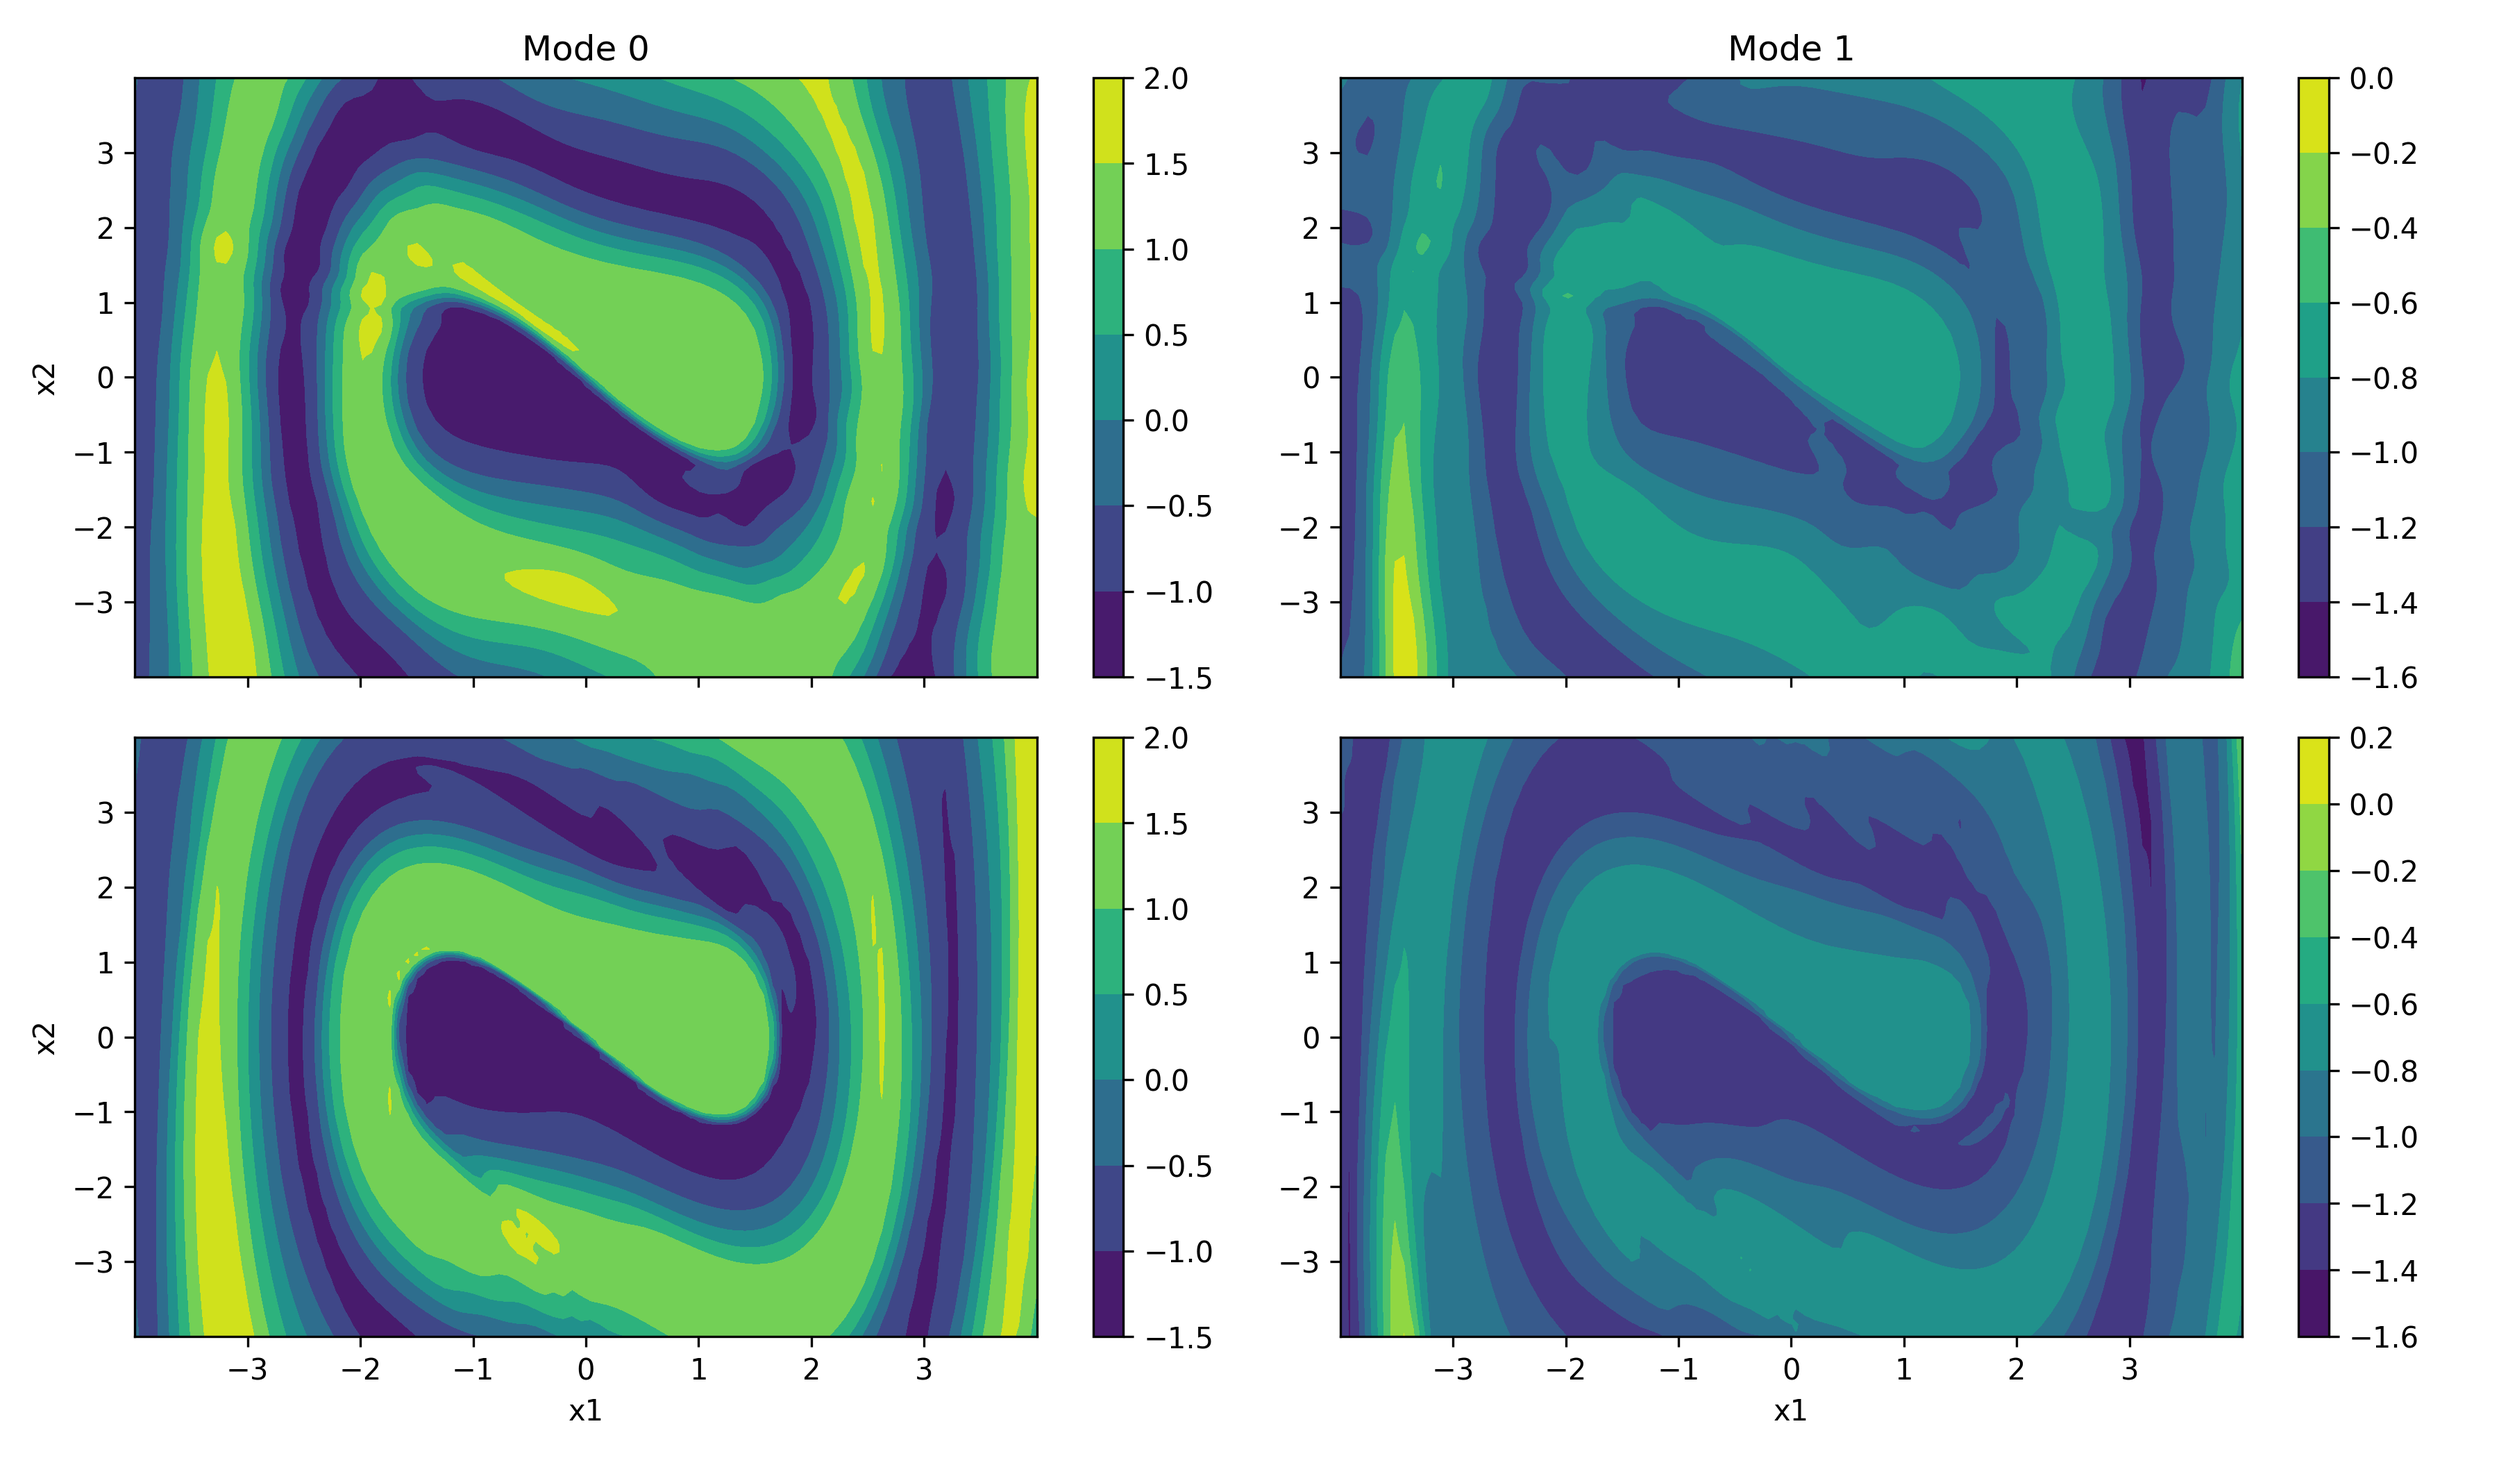
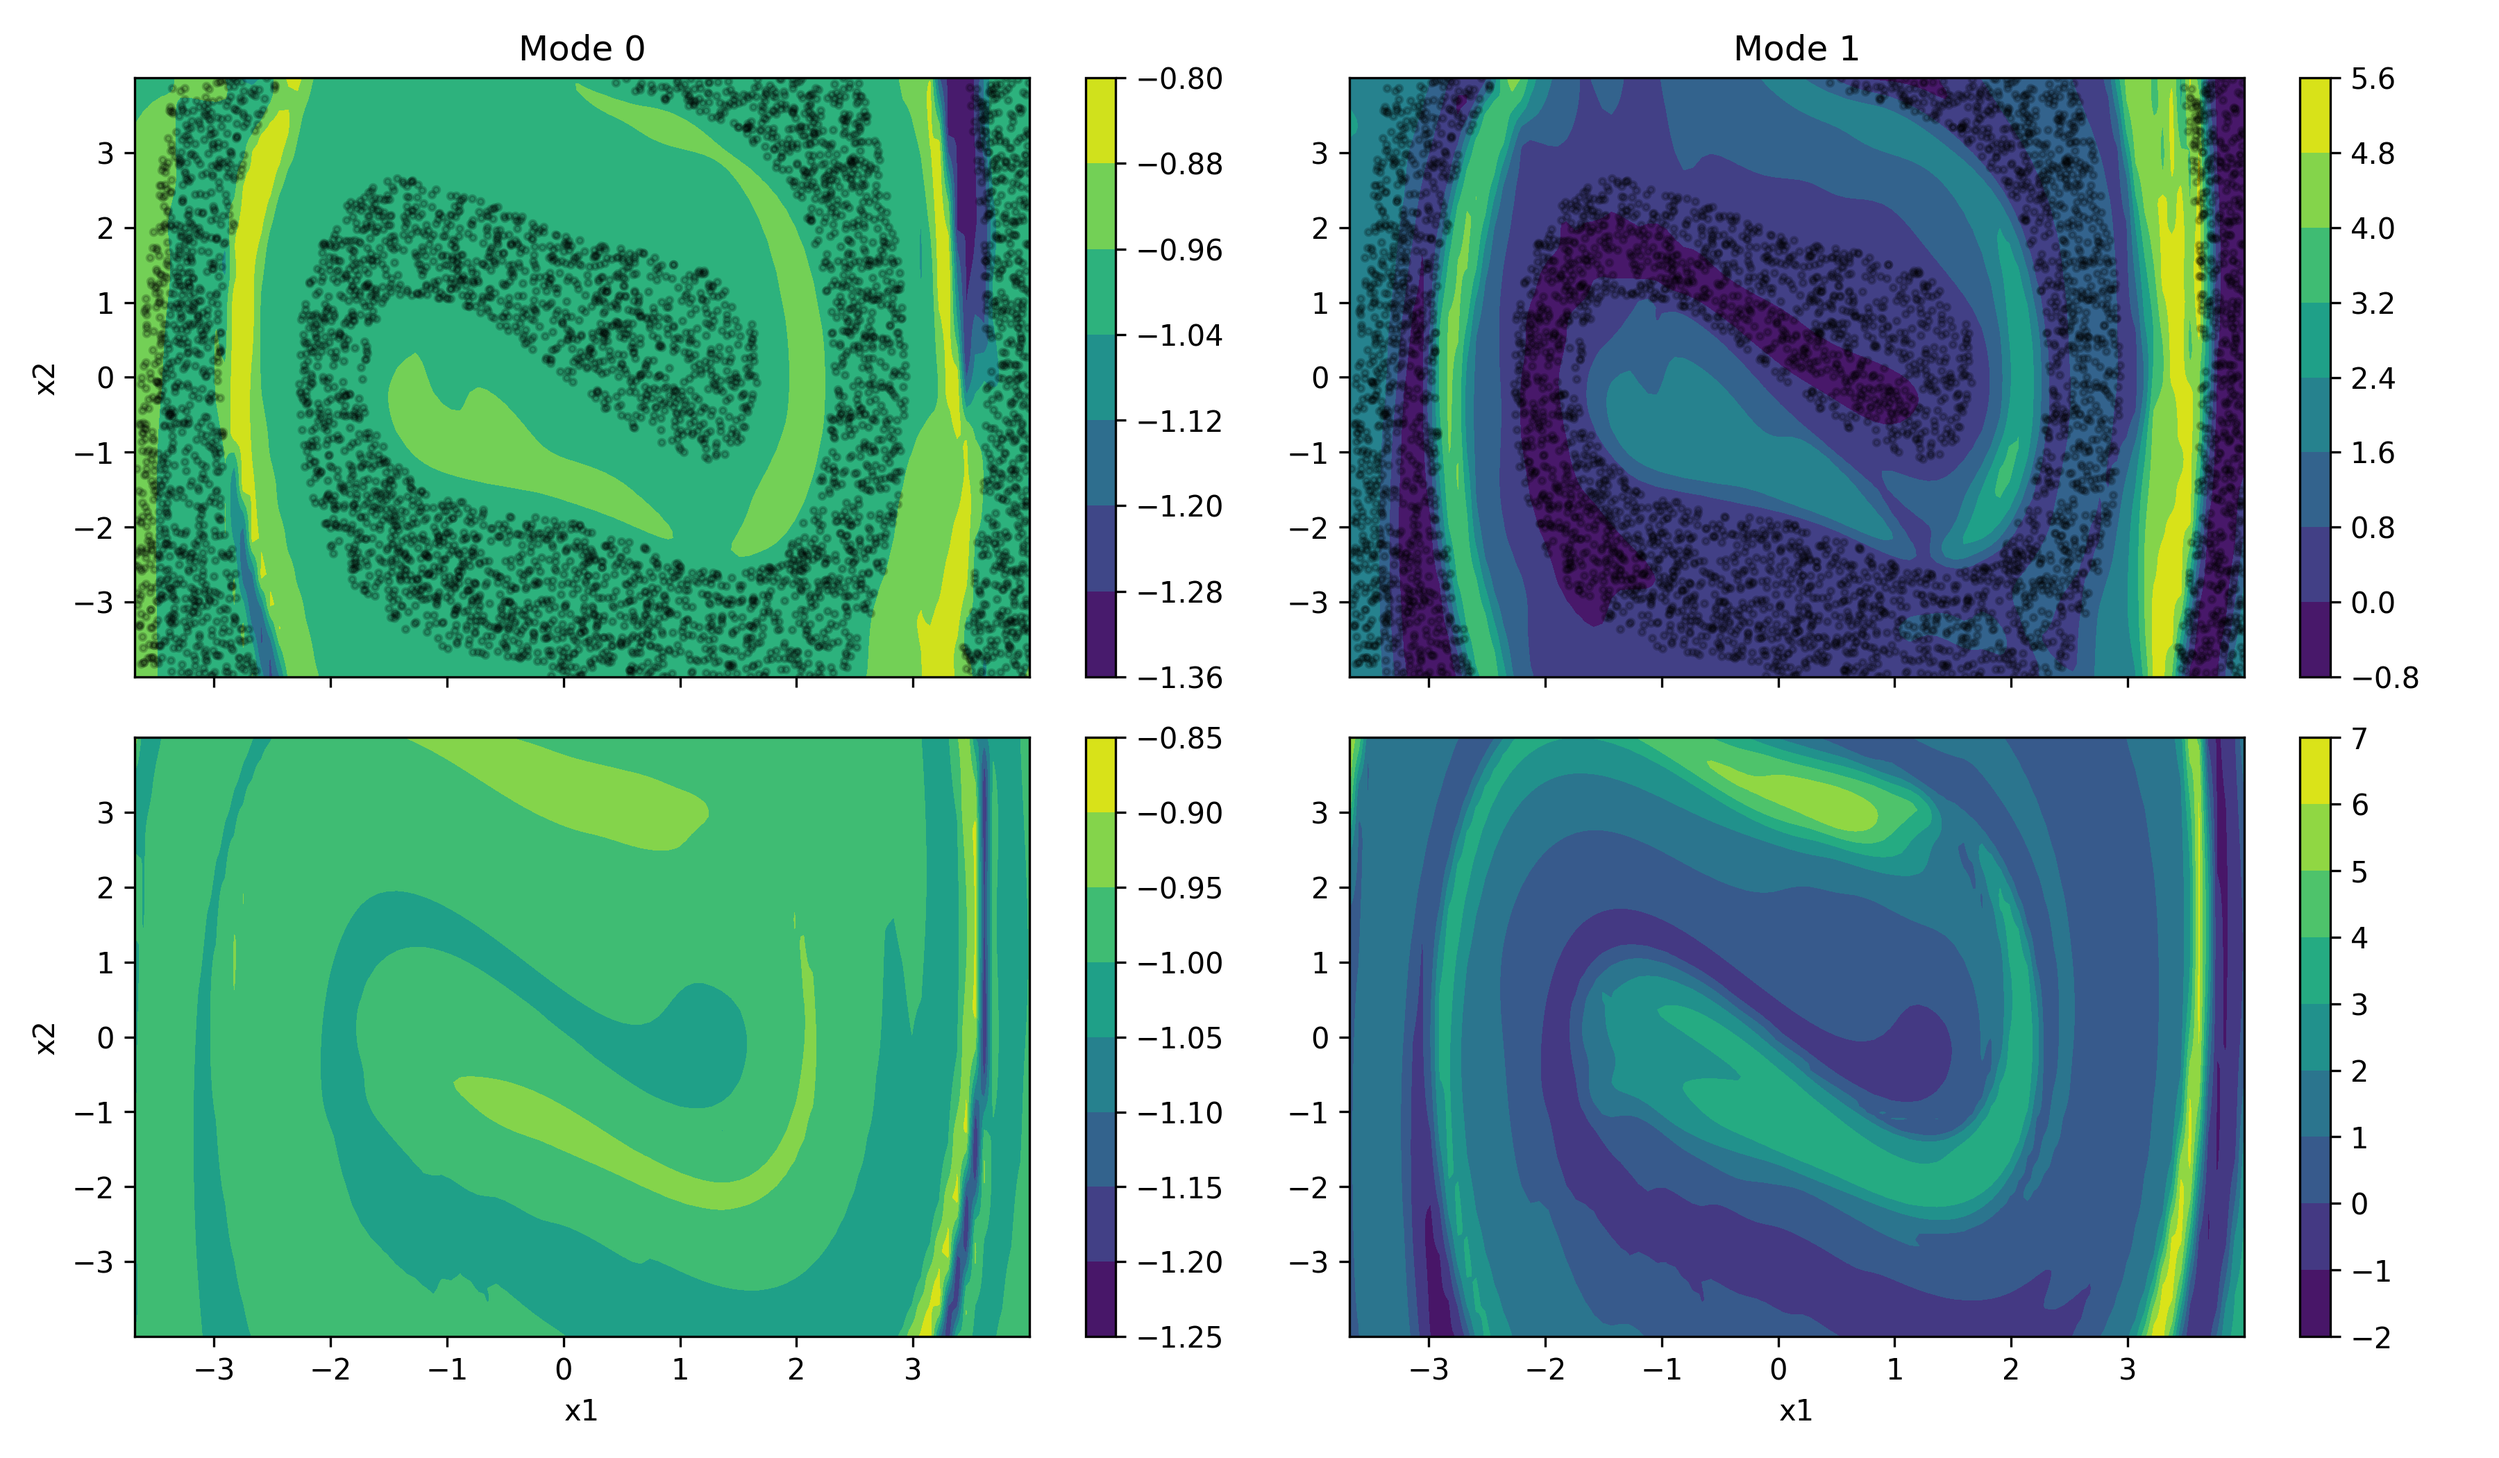
In progress

diff --git a/examples/duffing.py b/examples/duffing.py
@@ -71,15 +71,6 @@ if not args.edmd:
     N = 10_000
     X = dom.sample(N)
 
-    # target: ``V[:, k] =
-    #     cos(alpha * k * X[:, 0] + phi0) +
-    #     sin(alpha * k * X[:, 1] + phi1) + noise``
-    X0_ang = X[:, [0]] @ (np.array([range(output_dim)]) * 1.5) + 1
-    X1_ang = X[:, [1]] @ (np.array([range(output_dim)]) * 1.5) - 1
-    V = np.cos(X0_ang) + np.sin(X1_ang) + 0.1 * rng.normal(size=(N, output_dim))
-    Q, _ = np.linalg.qr(V, mode="reduced")
-    V = Q * np.sqrt(N)
-
     centers = np.array([
         [-1.0, 0.0],
         [+1.0, 0.0],
@@ -94,10 +85,10 @@ if not args.edmd:
     obs.fit(X, V)
 
 # -------------------------
-# Koopman iterations
+# Koopman iterations #1
 # -------------------------
 N = 10_000
-max_iter = 50
+max_iter = 5
 
 if not args.edmd:
     koopman_modes(dom, sys, obs, N, max_iter)
@@ -120,12 +111,64 @@ num = np.linalg.norm(V_next @ (eigvecs / eigvals) - V @ eigvecs, axis=0)
 den = np.linalg.norm(V @ eigvecs, axis=0)
 print(num / den)
 
+v_dom = V @ (eigvecs[:, 0] / eigvals[0])
+mask = v_dom > v_dom.mean() + 0.5 * v_dom.std()
+X_filtered = X[mask]
+N_filtered = len(X_filtered)
+
+# -------------------------
+# Koopman iterations #2
+# -------------------------
+# Initialize observer
+if not args.edmd:
+    N = 10_000
+    X = dom.sample(N)
+    
+    centers = np.array([
+        [-1.0, 0.0],
+        [+1.0, 0.0],
+    ])
+    V = np.zeros_like(X)
+    for (i, x) in enumerate(X):
+        if np.linalg.norm(x - centers[0, :]) < 0.8:
+            V[i, 0] = +1.0
+        if np.linalg.norm(x - centers[1, :]) < 0.8:
+            V[i, 1] = -1.0
+
+    obs.fit(X, V)
+
+if not args.edmd:
+    koopman_modes(dom, sys, obs, 0, max_iter, X_fixed=X_filtered)
+
+print("Koopman regression:")
+Kop, Vop, Vop_next = koopman_operator(dom, sys, obs, 0, X_fixed=X_filtered)
+print((Vop.T @ Vop) / N_filtered)
+print(np.linalg.norm(Vop_next - Vop @ Kop, axis=0) / np.sqrt(N_filtered))
+print("Koopman modes error:")
+eigvals, eigvecs = np.linalg.eig(Kop)
+idx = np.argsort(np.abs(eigvals))[::-1][0:output_dim]
+eigvals = eigvals[idx]
+eigvecs = eigvecs[:, idx]
+print(eigvals)
+X_filtered_next = sys.next(X_filtered)
+V = obs.eval(X_filtered)
+V_next = obs.eval(X_filtered_next)
+num = np.linalg.norm(V_next @ (eigvecs / eigvals) - V @ eigvecs, axis=0)
+den = np.linalg.norm(V @ eigvecs, axis=0)
+print(num / den)
+
+V_min = np.min(V, axis=0)
+V_max = np.max(V, axis=0)
+
 # ---- plotting ----
 
 if args.plot:
     from examples.utils import plot_learned_function, plt
     fig = plot_learned_function(
-        sys, obs, eigvals, eigvecs, X, plot_sample=False
+        sys, obs, eigvals, eigvecs, X_filtered,
+        plot_sample=True,
+        V_min=V_min,
+        V_max=V_max,
     )
     plt.show()
     fig.savefig("duffing.png", dpi=300)

diff --git a/examples/utils.py b/examples/utils.py
@@ -12,14 +12,22 @@ def plot_learned_function(
     X: np.ndarray,
     *,
     plot_sample: bool = True,
+    V_min: np.ndarray | None = None,
+    V_max: np.ndarray | None = None,
 ):
     if obs.input_dim == 1:
         return _plot_function_1d(
-            sys, obs, eigvals, eigvecs, X, plot_sample=plot_sample
+            sys, obs, eigvals, eigvecs, X,
+            plot_sample=plot_sample,
+            V_min=V_min,
+            V_max=V_max,
         )
     elif obs.input_dim == 2:
         return _plot_function_2d(
-            sys, obs, eigvals, eigvecs, X, plot_sample=plot_sample
+            sys, obs, eigvals, eigvecs, X,
+            plot_sample=plot_sample,
+            V_min=V_min,
+            V_max=V_max,
         )
     else:
         raise NotImplementedError
@@ -32,6 +40,8 @@ def _plot_function_1d(
     X: np.ndarray,
     *,
     plot_sample: bool = True,
+    V_min: np.ndarray | None = None,
+    V_max: np.ndarray | None = None,
 ):
     # Smooth grid for plotting the learned function
     X_grid = np.linspace(X.min(), X.max(), 400)[:, None]
@@ -39,6 +49,14 @@ def _plot_function_1d(
     V_grid = obs.eval(X_grid)
     V_grid_next = obs.eval(X_grid_next)
     n_mode = len(eigvals)
+
+    if V_min is not None:
+        V_grid = np.maximum(V_grid, V_min)
+        V_grid_next = np.maximum(V_grid_next, V_min)
+    
+    if V_max is not None:
+        V_grid = np.minimum(V_grid, V_max)
+        V_grid_next = np.minimum(V_grid_next, V_max)
 
     fig, axes = plt.subplots(1, n_mode, figsize=(10, 4), sharex=True)
 
@@ -79,6 +97,8 @@ def _plot_function_2d(
     X: np.ndarray,
     *,
     plot_sample: bool = True,
+    V_min: np.ndarray | None = None,
+    V_max: np.ndarray | None = None,
 ):
     # Smooth grid for plotting the learned function
     n_grid = 100
@@ -91,6 +111,15 @@ def _plot_function_2d(
     V_grid = obs.eval(X_grid)
     V_grid_next = obs.eval(X_grid_next)
     n_mode = len(eigvals)
+
+    if V_min is not None:
+        V_grid = np.maximum(V_grid, V_min)
+        V_grid_next = np.maximum(V_grid_next, V_min)
+    
+    if V_max is not None:
+        V_grid = np.minimum(V_grid, V_max)
+        V_grid_next = np.minimum(V_grid_next, V_max)
+
 
     fig, axes = plt.subplots(2, n_mode, figsize=(12, 7), sharex=True)
 

diff --git a/src/koopman.py b/src/koopman.py
@@ -14,6 +14,8 @@ def koopman_modes(
     obs: AbstractObserver,
     N: int,
     max_iter: int,
+    *,
+    X_fixed: np.ndarray | None = None,
 ) -> None:
     """
     Estimate Koopman eigenfunctions from data using a power-iteration scheme.
@@ -43,6 +45,10 @@ def koopman_modes(
         start_all = time.perf_counter()
 
         X = dom.sample(N)
+
+        if X_fixed is not None:
+            X = np.vstack((X, X_fixed))
+
         start = time.perf_counter()
         X_next = sys.next(X)
         end = time.perf_counter()
@@ -52,7 +58,7 @@ def koopman_modes(
 
         # Orthonormalize columns of ``V``
         Q, _ = np.linalg.qr(V, mode="reduced")
-        V = Q * np.sqrt(N)
+        V = Q * np.sqrt(X.shape[0])
 
         start = time.perf_counter()
         obs.fit(X, V)
@@ -68,6 +74,8 @@ def koopman_operator(
     sys: AbstractSystem,
     obs: AbstractObserver,
     N: int,
+    *,
+    X_fixed: np.ndarray | None = None,
 ) -> tuple[np.ndarray, np.ndarray, np.ndarray]:
     """
     Estimate the Koopman operator ``K`` using least squares.
@@ -109,6 +117,10 @@ def koopman_operator(
         raise ValueError("Observer input_dim must match system state_dim.")
 
     X = dom.sample(N)
+
+    if X_fixed is not None:
+        X = np.vstack((X, X_fixed))
+
     X_next = sys.next(X)
     
     V = obs.eval(X)
